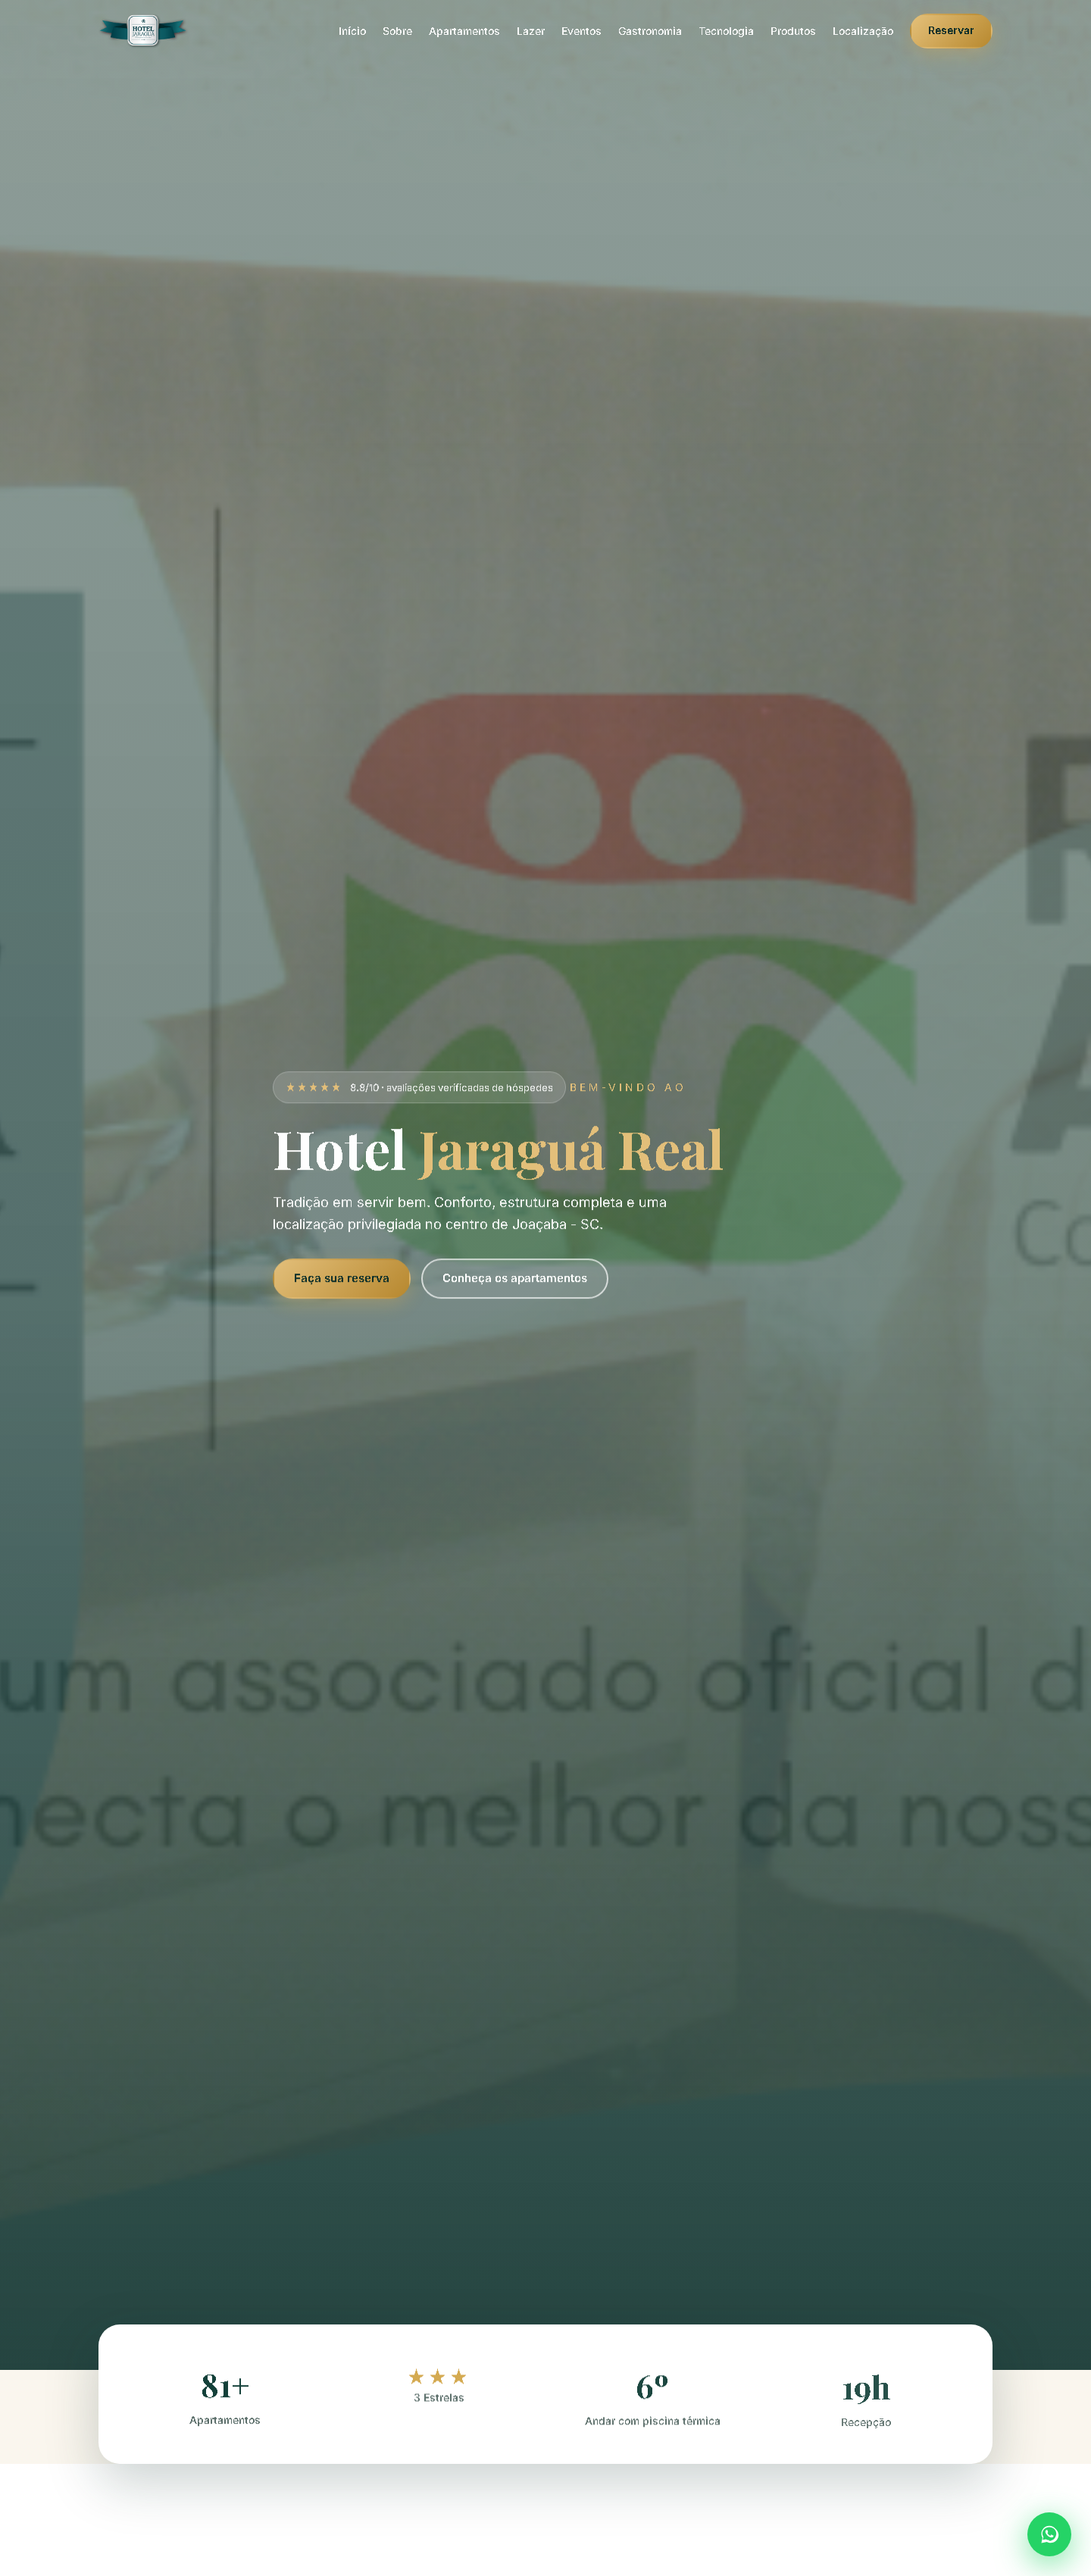
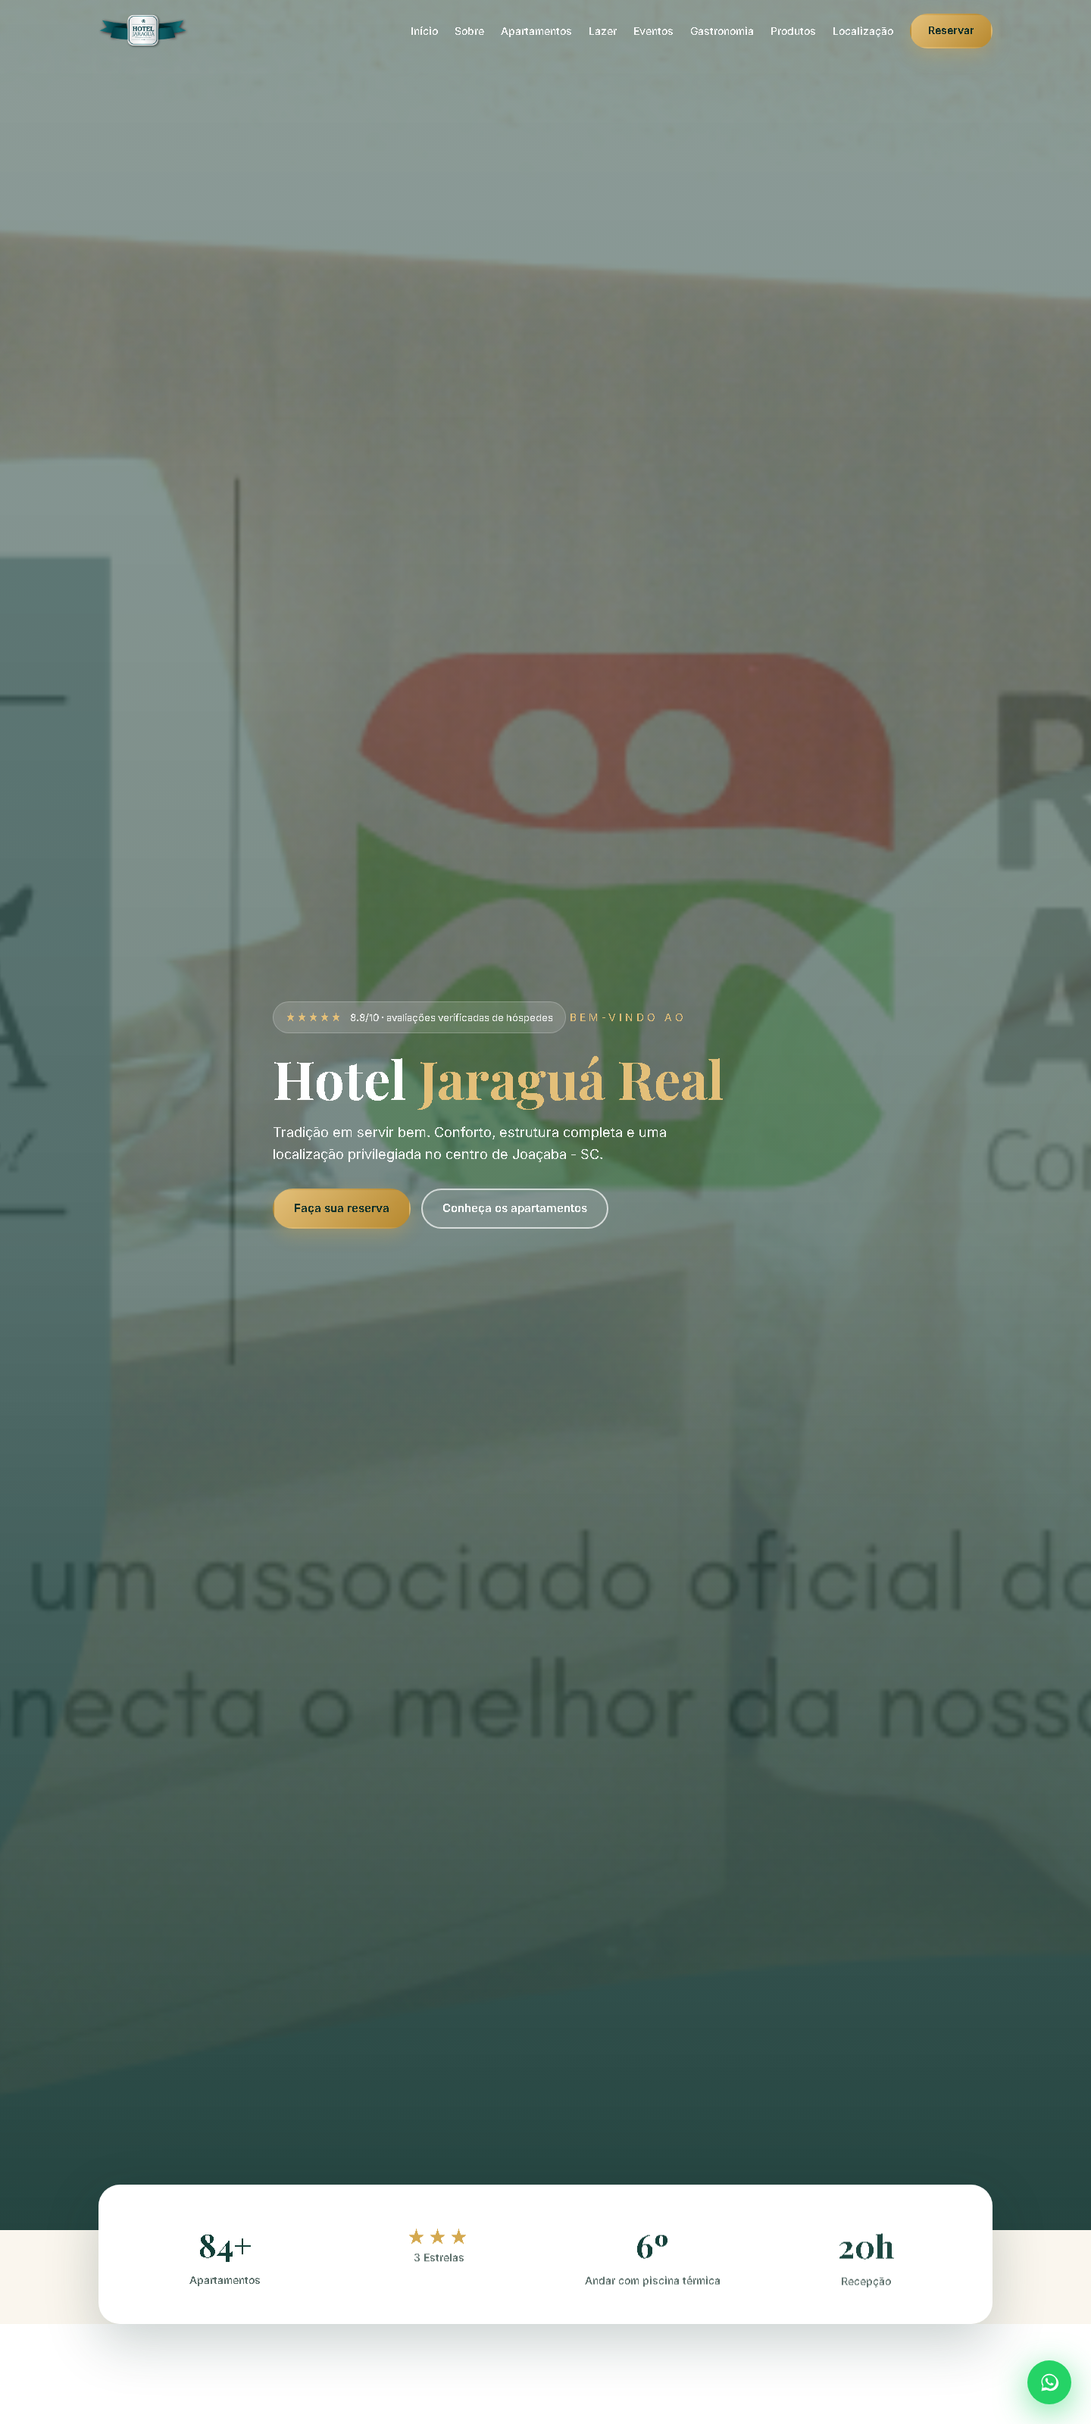
Remove seção de tecnologia do site

diff --git a/index.html b/index.html
@@ -27,7 +27,6 @@
                 <a href="#lazer" class="navbar__link">Lazer</a>
                 <a href="#eventos" class="navbar__link">Eventos</a>
                 <a href="#gastronomia" class="navbar__link">Gastronomia</a>
-                <a href="#tecnologia" class="navbar__link">Tecnologia</a>
                 <a href="#produtos" class="navbar__link">Produtos</a>
                 <a href="#localizacao" class="navbar__link">Localização</a>
                 <a href="https://reservas.desbravador.com.br/hotel-app/hotel-jaragua" target="_blank" rel="noopener" class="btn btn--gold navbar__cta">Reservar</a>
@@ -261,70 +260,6 @@
                     <h3>Vale Presente</h3>
                     <p>Surpreenda com vales para café colonial e hospedagens.</p>
                 </div>
-            </div>
-        </div>
-    </section>
-
-    <!-- TECNOLOGIA -->
-    <section class="section tech" id="tecnologia">
-        <div class="container">
-            <div class="section-header" data-animate="fade-up">
-                <span class="section-tag">Tecnologia &amp; performance</span>
-                <h2 class="section-title">Construído com o que há de <span class="gradient-text">mais moderno</span></h2>
-                <p class="section-desc">Um site leve, rápido, seguro e pronto para crescer junto com o hotel.</p>
-            </div>
-            <div class="tech__grid">
-                <div class="tech__item" data-animate="fade-up" data-delay="0">
-                    <span class="tech__icon">&#128377;</span>
-                    <h3>HTML5 &amp; CSS3 Semântico</h3>
-                    <p>Estrutura padronizada e acessível, com design system próprio (variáveis, grid e layout fluido).</p>
-                </div>
-                <div class="tech__item" data-animate="fade-up" data-delay="60">
-                    <span class="tech__icon">&#128187;</span>
-                    <h3>JavaScript Moderno</h3>
-                    <p>Animações suaves, slider, contadores e microinterações — tudo leve, sem plugins pesados.</p>
-                </div>
-                <div class="tech__item" data-animate="fade-up" data-delay="120">
-                    <span class="tech__icon">&#128241;</span>
-                    <h3>100% Responsivo</h3>
-                    <p>Experiência perfeita no celular, tablet e computador — onde seu hóspede estiver.</p>
-                </div>
-                <div class="tech__item" data-animate="fade-up" data-delay="180">
-                    <span class="tech__icon">&#128269;</span>
-                    <h3>SEO Otimizado</h3>
-                    <p>Estrutura pensada para o Google: "hotel em Joaçaba", "hotel no centro de Joaçaba" e muito mais.</p>
-                </div>
-                <div class="tech__item" data-animate="fade-up" data-delay="240">
-                    <span class="tech__icon">&#9889;</span>
-                    <h3>Carregamento Rápido</h3>
-                    <p>Imagens otimizadas, código enxuto e técnicas de performance para abrir em segundos.</p>
-                </div>
-                <div class="tech__item" data-animate="fade-up" data-delay="300">
-                    <span class="tech__icon">&#128274;</span>
-                    <h3>HTTPS &amp; Armazenamento CDN</h3>
-                    <p>Site seguro com certificado digital e hospedado em rede global de distribuição (CDN).</p>
-                </div>
-                <div class="tech__item" data-animate="fade-up" data-delay="360">
-                    <span class="tech__icon">&#128172;</span>
-                    <h3>Integração WhatsApp</h3>
-                    <p>Botão de contato direto e instantâneo em todas as telas, inclusive via celular.</p>
-                </div>
-                <div class="tech__item" data-animate="fade-up" data-delay="420">
-                    <span class="tech__icon">&#127758;</span>
-                    <h3>Integração Google Maps</h3>
-                    <p>Hóspedes encontram o hotel com um clique — sem abrir aplicativo externo.</p>
-                </div>
-                <div class="tech__item" data-animate="fade-up" data-delay="480">
-                    <span class="tech__icon">&#128260;</span>
-                    <h3>Integração com Reservas</h3>
-                    <p>Seu sistema atual (Desbravador) integrado visualmente, mantendo o fluxo que você já conhece.</p>
-                </div>
-            </div>
-            <div class="tech__footer" data-animate="fade-up">
-                <span class="tech__pill">Design system próprio</span>
-                <span class="tech__pill">Acessibilidade (a11y)</span>
-                <span class="tech__pill">Versão de teste em url pública</span>
-                <span class="tech__pill">Manutenção simples e rápida</span>
             </div>
         </div>
     </section>

diff --git a/src/css/style.css b/src/css/style.css
@@ -581,62 +581,6 @@ ul { list-style: none; }
 .produtos__card h3 { font-family: var(--font-serif); font-size: 1.3rem; color: var(--green-950); margin-bottom: 10px; }
 .produtos__card p { color: var(--ink-soft); font-size: 0.92rem; }
 
-/* ============ TECH ============ */
-.tech { background: var(--white); }
-.tech__grid {
-    display: grid;
-    grid-template-columns: repeat(3, 1fr);
-    gap: 24px;
-}
-.tech__item {
-    background: var(--cream);
-    border: 1px solid var(--border);
-    border-radius: var(--radius);
-    padding: 30px 26px;
-    transition: transform 0.4s var(--ease), box-shadow 0.4s, border-color 0.3s;
-}
-.tech__item:hover {
-    transform: translateY(-6px);
-    box-shadow: var(--shadow-md);
-    border-color: var(--gold-400);
-}
-.tech__icon {
-    display: inline-grid;
-    place-items: center;
-    width: 52px; height: 52px;
-    border-radius: 14px;
-    background: linear-gradient(135deg, var(--gold-400), var(--gold-600));
-    color: var(--green-950);
-    font-size: 1.5rem;
-    margin-bottom: 16px;
-    box-shadow: 0 8px 20px rgba(212, 169, 79, 0.3);
-}
-.tech__item h3 {
-    font-family: var(--font-serif);
-    font-size: 1.15rem;
-    color: var(--green-950);
-    margin-bottom: 8px;
-}
-.tech__item p { color: var(--ink-soft); font-size: 0.9rem; }
-.tech__footer {
-    display: flex;
-    flex-wrap: wrap;
-    gap: 12px;
-    justify-content: center;
-    margin-top: 40px;
-}
-.tech__pill {
-    font-size: 0.82rem;
-    font-weight: 600;
-    color: var(--green-900);
-    background: rgba(18, 63, 56, 0.07);
-    border: 1px solid var(--border);
-    padding: 9px 18px;
-    border-radius: 100px;
-    transition: background 0.2s, transform 0.2s var(--ease), border-color 0.2s;
-}
-.tech__pill:hover { background: rgba(212, 169, 79, 0.15); border-color: var(--gold-400); transform: translateY(-2px); }
-
 /* ============ MOCKUP NOTE ============ */
 .mockup-note {
     background: var(--green-950);
@@ -816,7 +760,6 @@ ul { list-style: none; }
     .sobre__inner, .lazer__grid, .eventos__grid, .gastronomia__grid { grid-template-columns: 1fr; gap: 40px; }
     .sobre__img--alt { right: 0; }
     .apartamentos__grid, .produtos__grid { grid-template-columns: 1fr 1fr; }
-    .tech__grid { grid-template-columns: 1fr 1fr; }
     .highlights__grid { grid-template-columns: repeat(2, 1fr); }
     .localizacao__card { grid-template-columns: 1fr; }
     .footer__grid { grid-template-columns: 1fr 1fr; }
@@ -845,7 +788,7 @@ ul { list-style: none; }
     .section { padding: 80px 0; }
     .sobre__media { padding-bottom: 40px; }
     .sobre__badge { left: 0; }
-    .apartamentos__grid, .produtos__grid, .lazer__items, .tech__grid { grid-template-columns: 1fr; }
+    .apartamentos__grid, .produtos__grid, .lazer__items { grid-template-columns: 1fr; }
     .highlights { margin-top: -90px; }
     .highlights__grid { padding: 24px; gap: 14px; }
     .highlights__num { font-size: 2rem; }
